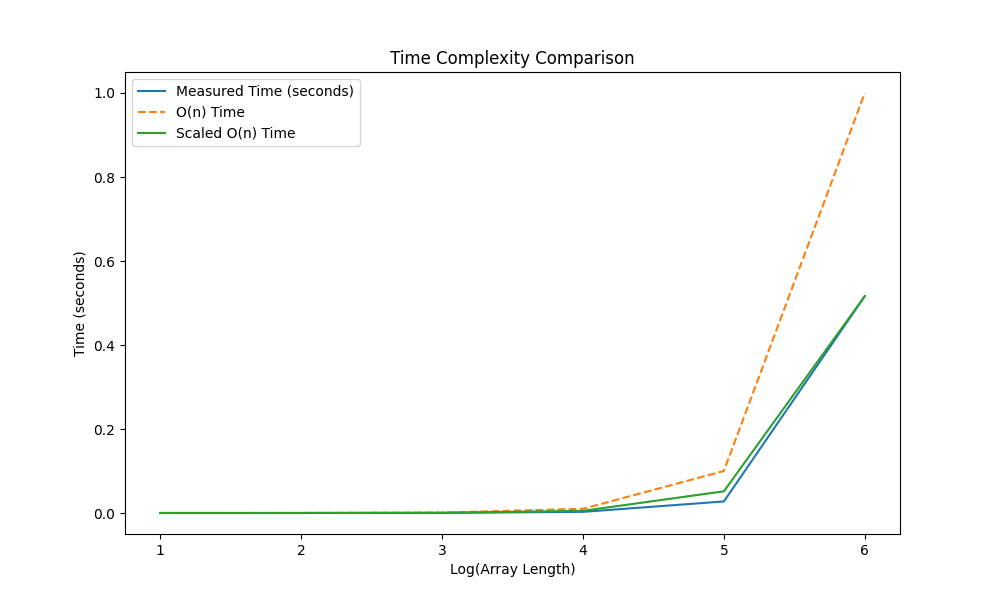
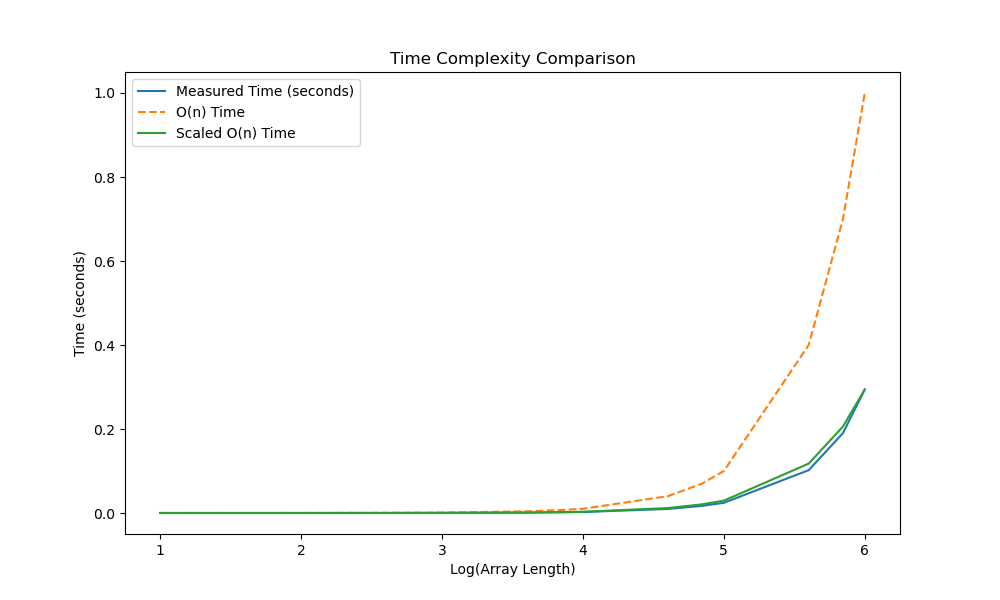
update2

diff --git a/time_test.py b/time_test.py
@@ -2,6 +2,9 @@ import random
 import time
 import matplotlib.pyplot as plt
 import numpy as np
+import csv
+from datetime import datetime
+import os
 
 from quick_select import QuickSelect, Util
 
@@ -11,7 +14,11 @@ def quickselect(arr, k):
     return solution.quick_select(arr, k)
 
 # Define the array length range for testing
-array_lengths = [10**1, 10**2, 10**3, 10**4, 10**5, 10**6]
+array_lengths = []
+n_range = 6
+for i in range(1, n_range):
+    array_lengths.extend([1 * (10 ** i), 4 * (10 ** i), 7 * (10 ** i)])
+array_lengths.append(10 ** n_range)
 
 # Lists to store the measured times and O(n) times
 measured_times = []
@@ -47,8 +54,33 @@ for length in array_lengths:
     # Print the results and average running time
     print(f"Array length: {length}, {k}th smallest element is {result}")
     print(f"Average running time: {average_time} seconds")
+
+# Scale the O(n) time for comparison
+scaling_factor = measured_times[(n_range * 3) - 3] / on_times[(n_range * 3) - 3]
+scaled_on_times = [on_time * scaling_factor for on_time in on_times]
+
+# Get current date and time
+current_datetime = datetime.now()
+formatted_datetime = current_datetime.strftime("%Y-%m-%d_%H-%M-%S")
+
+# Create the directory for record files
+record_dir = os.path.join('record', formatted_datetime)
+os.makedirs(record_dir, exist_ok=True)
+
+# Create the file name with date and time
+csv_file_name = f"time_record_{formatted_datetime}.csv"
+figure_file_name = f"time_comparison_figure_{formatted_datetime}.png"
+
+# Write the data to a CSV file in the record directory
+csv_file_path = os.path.join(record_dir, csv_file_name)
+with open(csv_file_path, mode='w', newline='') as file:
+    writer = csv.writer(file)
+    writer.writerow(["Array Length", "Measured Time (seconds)", "O(n) Time", "Scaled O(n) Time"])
     
-    # Plot the measured times and O(n) times
+    for i in range(len(array_lengths)):
+        writer.writerow([array_lengths[i], measured_times[i], on_times[i], scaled_on_times[i]])
+
+# Plot the measured times and O(n) times
 plt.figure(figsize=(10, 6))
 plt.plot(np.log10(array_lengths), measured_times, label='Measured Time (seconds)')
 plt.plot(np.log10(array_lengths), on_times, label='O(n) Time', linestyle='--')
@@ -56,11 +88,14 @@ plt.xlabel('Log(Array Length)')
 plt.ylabel('Time (seconds)')
 plt.legend()
 
-# Scale the O(n) time for comparison
-scaling_factor = measured_times[5] / on_times[5]
-scaled_on_times = [on_time * scaling_factor for on_time in on_times]
 plt.plot(np.log10(array_lengths), scaled_on_times, label='Scaled O(n) Time')
 
 plt.legend()
 plt.title('Time Complexity Comparison')
+
+# Save the figure in the record directory
+figure_file_path = os.path.join(record_dir, figure_file_name)
+plt.savefig(figure_file_path)
+
+# Show the figure
 plt.show()

diff --git a/README.md b/README.md
@@ -3,7 +3,15 @@ CSCI 6212 project 2
 
 - Run quick_select.py to have a basic test on code
 - And you can run main.py to have further test on code
-- Using time_test.py to calculate the time cost in different array size 10^n (set n = 1 ~ 6)
+- Using time_test.py to calculate the time cost in different array size 10^n (Defualt set n = 1 ~ 6)
+- The result(csv and figure) will be storaged in ./record/current_time/
 
 Result of time_test.py:
 ![result](Figure_1.png)
+
+And the data is:
+
+![Alt text](image-1.png)
+
+Get csv here:
+[CSV](data.csv)
